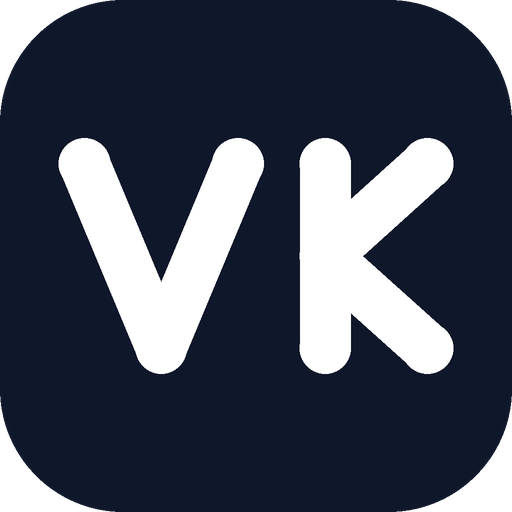
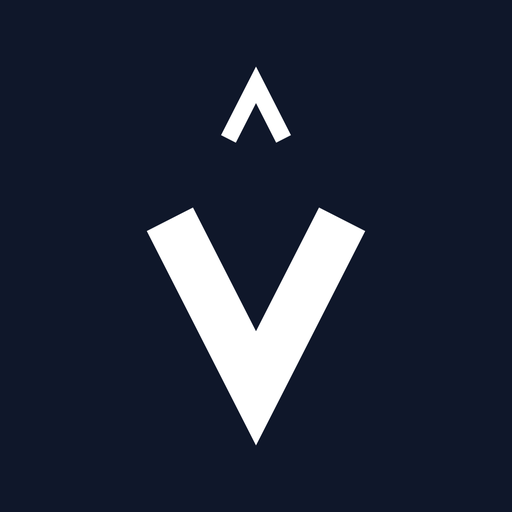
Replace VK monogram with the new mark; fix anchor scroll offset
The mark is a V at 27° off vertical, a caret above it that is the same V at
32% scale (stroke included), and a rule below. Turned 90° the rule becomes a
stem and the V becomes arms, so it is also a K — which is why it can sit alone
without echoing the wordmark's first letter.

- globals.css: add scroll-padding-top. The header is fixed at h-16, so every
  #anchor was scrolling its section heading underneath it.
- Logo.tsx: new geometry, with compact (drops the rule, for tiles and circles)
  and accent (puts the rule in indigo) variants. The old monogram's ground used
  currentColor, so the whole tile turned indigo on hover.
- Navbar.tsx: the mark stands alone. It no longer sits beside "Vedanth K." —
  a tall narrow mark against a horizontal word fights it for the same optical
  line, and both starting with V read as a stutter.
- Draw-on animation starts at 2.40s and ends at ~3.8s, timed against Hero's
  CHAOS_MS 2200 + COLLAPSE_MS 1800 so the mark and the name settle together
  rather than competing. Gated on prefers-reduced-motion: no-preference, so if
  the rules never apply the mark renders fully drawn instead of invisible.
- Mobile menu: Escape to close, body scroll lock, solid header while open.
- Nav links get active-section state via IntersectionObserver.
- Icons regenerated from the new mark: favicon.svg flips with the tab chrome,
  .ico carries 16/32/48, PWA icons keep the mark inside the maskable safe zone.

diff --git a/app/components/Navbar.tsx b/app/components/Navbar.tsx
@@ -13,32 +13,68 @@ const navLinks = [
 export default function Navbar() {
   const [scrolled, setScrolled] = useState(false)
   const [menuOpen, setMenuOpen] = useState(false)
+  const [active, setActive] = useState<string>('')
 
   useEffect(() => {
     const handleScroll = () => setScrolled(window.scrollY > 20)
-    window.addEventListener('scroll', handleScroll)
+    handleScroll()
+    window.addEventListener('scroll', handleScroll, { passive: true })
     return () => window.removeEventListener('scroll', handleScroll)
   }, [])
+
+  // Which section is currently under the header. rootMargin's top inset matches
+  // the fixed header so a section counts as active once it clears it.
+  useEffect(() => {
+    const sections = navLinks
+      .map((l) => document.querySelector(l.href))
+      .filter((el): el is Element => el !== null)
+    if (!sections.length) return
+
+    const observer = new IntersectionObserver(
+      (entries) => {
+        const visible = entries
+          .filter((e) => e.isIntersecting)
+          .sort((a, b) => b.intersectionRatio - a.intersectionRatio)[0]
+        if (visible) setActive(`#${visible.target.id}`)
+      },
+      { rootMargin: '-64px 0px -55% 0px', threshold: [0.1, 0.5] }
+    )
+    sections.forEach((s) => observer.observe(s))
+    return () => observer.disconnect()
+  }, [])
+
+  // Escape closes the menu; the body scroll lock stops the page drifting behind it.
+  useEffect(() => {
+    if (!menuOpen) return
+    const onKey = (e: KeyboardEvent) => e.key === 'Escape' && setMenuOpen(false)
+    document.addEventListener('keydown', onKey)
+    const prev = document.body.style.overflow
+    document.body.style.overflow = 'hidden'
+    return () => {
+      document.removeEventListener('keydown', onKey)
+      document.body.style.overflow = prev
+    }
+  }, [menuOpen])
+
+  const solid = scrolled || menuOpen
 
   return (
     <header
       className={`fixed top-0 left-0 right-0 z-50 transition-all duration-300 ${
-        scrolled ? 'bg-white/95 backdrop-blur-sm shadow-sm' : 'bg-transparent'
+        solid ? 'bg-white/95 backdrop-blur-sm shadow-sm' : 'bg-transparent'
       }`}
     >
       {/* Full-bleed 1fr/auto/1fr grid: the equal outer columns keep the links
-          centred on the viewport no matter how wide the brand or CTA get. */}
+          centred on the viewport no matter how wide the CTA gets. */}
       <nav className="w-full h-16 px-5 sm:px-8 lg:px-12 grid grid-cols-[1fr_auto_1fr] items-center gap-4">
-        {/* Left: brand, flush to the edge */}
+        {/* Left: the mark, alone. It never sits beside the name — the name is
+            already on the page, and the pair reads as a stutter. */}
         <a
           href="#"
-          className="col-start-1 justify-self-start flex items-center gap-2.5 text-slate-900 hover:text-indigo-600 transition-colors"
-          aria-label="Vedanth Kogileru — home"
+          className="col-start-1 justify-self-start text-slate-900 hover:opacity-60 transition-opacity focus-visible:outline-2 focus-visible:outline-offset-4 focus-visible:outline-indigo-600 rounded-sm"
+          aria-label="Vedanth Kogileru — back to top"
         >
-          <Logo className="w-8 h-8 shrink-0" />
-          <span className="font-semibold text-lg tracking-tight whitespace-nowrap">
-            Vedanth K.
-          </span>
+          <Logo className="h-9 w-auto" animate accent />
         </a>
 
         {/* Centre: section links */}
@@ -47,7 +83,12 @@ export default function Navbar() {
             <li key={link.href}>
               <a
                 href={link.href}
-                className="text-slate-600 hover:text-indigo-600 text-sm font-medium transition-colors whitespace-nowrap"
+                aria-current={active === link.href ? 'true' : undefined}
+                className={`text-sm font-medium transition-colors whitespace-nowrap ${
+                  active === link.href
+                    ? 'text-slate-900'
+                    : 'text-slate-600 hover:text-indigo-600'
+                }`}
               >
                 {link.label}
               </a>
@@ -65,12 +106,13 @@ export default function Navbar() {
           </a>
 
           <button
-            className="md:hidden text-slate-600 hover:text-slate-900"
+            className="md:hidden -mr-2 p-2 text-slate-600 hover:text-slate-900 focus-visible:outline-2 focus-visible:outline-offset-2 focus-visible:outline-indigo-600 rounded-md"
             onClick={() => setMenuOpen(!menuOpen)}
-            aria-label="Toggle menu"
+            aria-label={menuOpen ? 'Close menu' : 'Open menu'}
             aria-expanded={menuOpen}
+            aria-controls="mobile-menu"
           >
-            <svg className="w-6 h-6" fill="none" stroke="currentColor" viewBox="0 0 24 24">
+            <svg className="w-6 h-6" fill="none" stroke="currentColor" viewBox="0 0 24 24" aria-hidden="true">
               {menuOpen ? (
                 <path strokeLinecap="round" strokeLinejoin="round" strokeWidth={2} d="M6 18L18 6M6 6l12 12" />
               ) : (
@@ -83,12 +125,18 @@ export default function Navbar() {
 
       {/* Mobile menu */}
       {menuOpen && (
-        <div className="md:hidden bg-white border-t border-slate-100 px-5 py-4 flex flex-col gap-4">
+        <div
+          id="mobile-menu"
+          className="md:hidden bg-white border-t border-slate-100 px-5 py-4 flex flex-col gap-4"
+        >
           {navLinks.map((link) => (
             <a
               key={link.href}
               href={link.href}
-              className="text-slate-700 font-medium hover:text-indigo-600 transition-colors"
+              aria-current={active === link.href ? 'true' : undefined}
+              className={`font-medium transition-colors ${
+                active === link.href ? 'text-indigo-600' : 'text-slate-700 hover:text-indigo-600'
+              }`}
               onClick={() => setMenuOpen(false)}
             >
               {link.label}

diff --git a/app/components/Logo.tsx b/app/components/Logo.tsx
@@ -1,29 +1,60 @@
 /**
- * VK monogram. The rounded ground uses currentColor so the mark can pick up
- * hover/theme colour from its parent; the letterforms stay white.
- * Geometry is kept in sync with public/favicon.svg.
+ * The mark: a V at 27° off vertical, a caret above it that is the same V at 32%
+ * scale (stroke included), and a rule below. Turned 90° the rule becomes a stem
+ * and the V becomes arms — it is also a K.
+ *
+ * Geometry is on a 24-unit grid and must stay in sync with logo/identity.html
+ * and public/favicon.svg. Do not thicken the caret: its weight is locked to the
+ * V's so the notch stays open.
  */
-export default function Logo({ className = '' }: { className?: string }) {
+type LogoProps = {
+  className?: string
+  /** Draw the mark in on mount. Use once per page load, never on hover. */
+  animate?: boolean
+  /** Drops the rule. For tiles, circular crops and anything under 24px. */
+  compact?: boolean
+  /** Puts the rule in indigo — the only element that ever takes the accent. */
+  accent?: boolean
+}
+
+export default function Logo({
+  className = '',
+  animate = false,
+  compact = false,
+  accent = false,
+}: LogoProps) {
   return (
     <svg
-      viewBox="0 0 100 100"
-      className={className}
+      viewBox={compact ? '6.221 0.4 11.558 19' : '4.75 0.4 14.5 22.3'}
+      className={`${animate ? 'logo-draw ' : ''}${className}`}
+      fill="none"
       role="img"
       aria-label="Vedanth Kogileru"
     >
-      <rect width="100" height="100" rx="24" fill="currentColor" />
-      <g
-        fill="none"
-        stroke="#ffffff"
-        strokeWidth="10"
-        strokeLinecap="round"
-        strokeLinejoin="round"
-        transform="translate(-0.5 0)"
-      >
-        <path d="M17 32 L32 68 L47 32" />
-        <path d="M64 32 L64 68" />
-        <path d="M64 50 L84 32" />
-        <path d="M64 50 L84 68" />
+      <g strokeLinecap="butt" strokeLinejoin="miter" strokeMiterlimit={6}>
+        <path
+          className="lg-v"
+          stroke="currentColor"
+          pathLength={1}
+          d="M7.68 8.058 L12 16.537 L16.32 8.058"
+          strokeWidth={2.6}
+        />
+        <path
+          className="lg-c"
+          stroke="currentColor"
+          pathLength={1}
+          d="M10.618 4.029 L12 1.316 L13.382 4.029"
+          strokeWidth={0.832}
+        />
+        {!compact && (
+          <path
+            className={`lg-r ${accent ? 'text-indigo-600' : ''}`}
+            stroke="currentColor"
+            pathLength={1}
+            d="M4.75 21.7 L19.25 21.7"
+            strokeWidth={2}
+          />
+        )}
       </g>
     </svg>
   )

diff --git a/app/globals.css b/app/globals.css
@@ -4,6 +4,9 @@
 
 html {
   scroll-behavior: smooth;
+  /* The navbar is fixed at h-16 (4rem). Without this every #anchor scrolls the
+     section heading underneath it. */
+  scroll-padding-top: 5rem;
 }
 
 @layer base {
@@ -16,4 +19,35 @@ html {
   .section-padding {
     @apply py-20 px-6 md:px-12 lg:px-24;
   }
+}
+
+/* ---------------------------------------------------------------------------
+   Logo draw-on. Strokes carry pathLength="1", so the dash maths is independent
+   of the mark's actual path length and of the size it renders at. Order is the
+   order a hand would draw it: V in one down-up motion, then the hat, then the
+   underline.
+   --------------------------------------------------------------------------- */
+@keyframes logo-draw {
+  to { stroke-dashoffset: 0; }
+}
+
+/* Gated on no-preference rather than overridden afterwards: if these rules never
+   apply, the mark simply renders fully drawn. Hiding it by default and relying on
+   an animation to reveal it would mean any failure leaves an invisible logo. */
+@media (prefers-reduced-motion: no-preference) {
+  .logo-draw path {
+    stroke-dasharray: 1;
+    stroke-dashoffset: 1;
+    animation: logo-draw var(--d) cubic-bezier(0.5, 0, 0.35, 1) var(--t) both;
+  }
+  /* Timed against Hero.tsx: CHAOS_MS 2200 + COLLAPSE_MS 1800, so the name lands
+     at ~4.0s. The mark starts as the particles begin collapsing and finishes at
+     ~3.8s — the two come to rest together instead of competing. */
+  .logo-draw .lg-v { --d: 0.70s; --t: 2.40s; }
+  .logo-draw .lg-c { --d: 0.32s; --t: 3.14s; }
+  .logo-draw .lg-r { --d: 0.32s; --t: 3.46s; }
+}
+
+@media (prefers-reduced-motion: reduce) {
+  html { scroll-behavior: auto; }
 }
